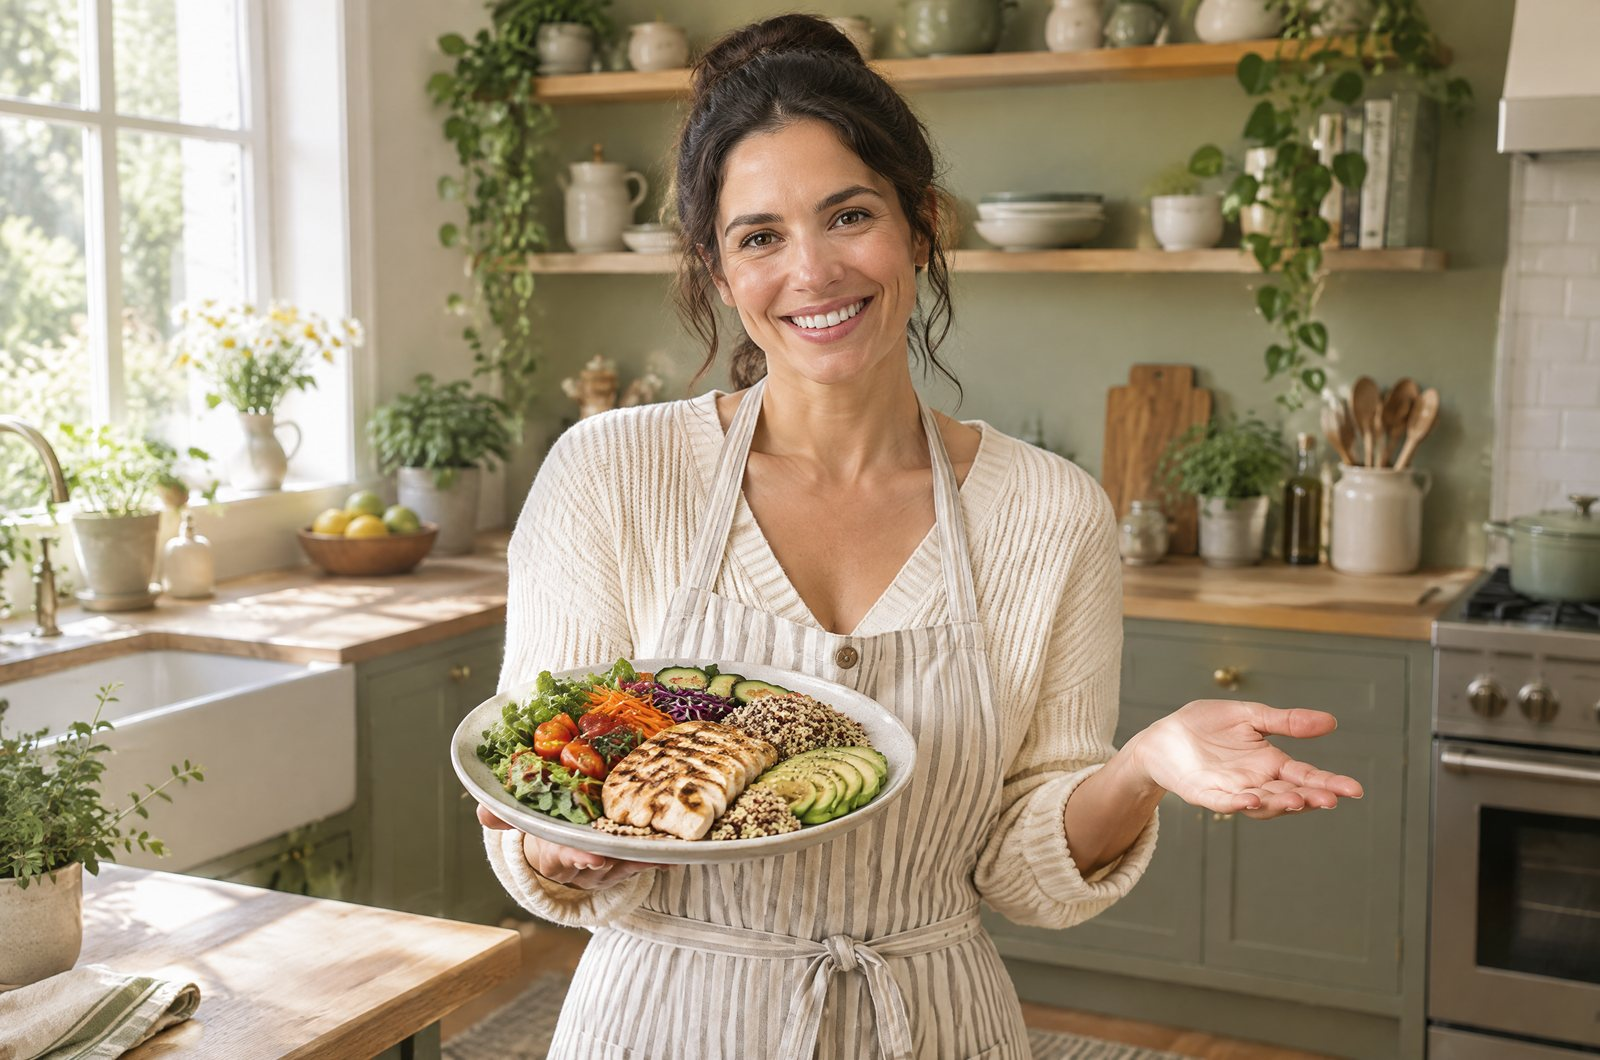
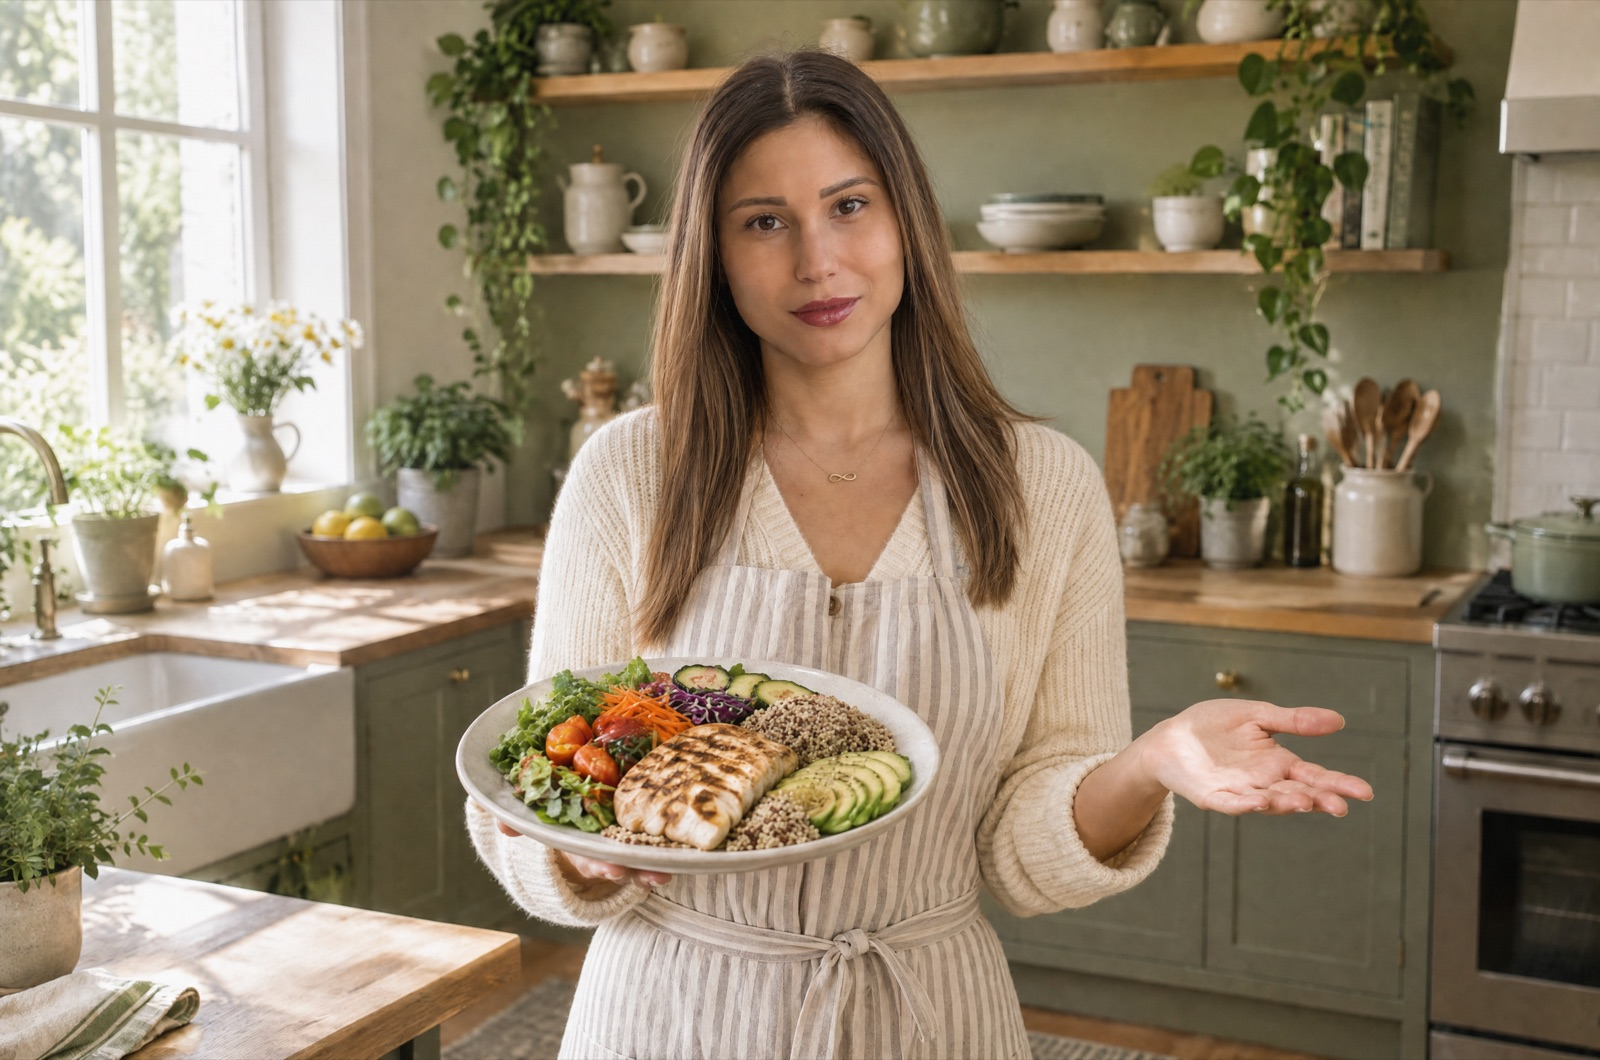
Горната снимка: Алекс с чинията в кухнята

diff --git a/index.html b/index.html
@@ -187,7 +187,7 @@ footer a{color:inherit}
 <body>
 
 <div class="hero-photo">
-  <img src="img/hero.jpg" alt="Балансирана чиния в кухнята" width="1600" height="1060">
+  <img src="img/hero.jpg?v=2" alt="Алекс Цвяткова с балансирана чиния в кухнята" width="1600" height="1060">
 </div>
 
 <header class="hero">
